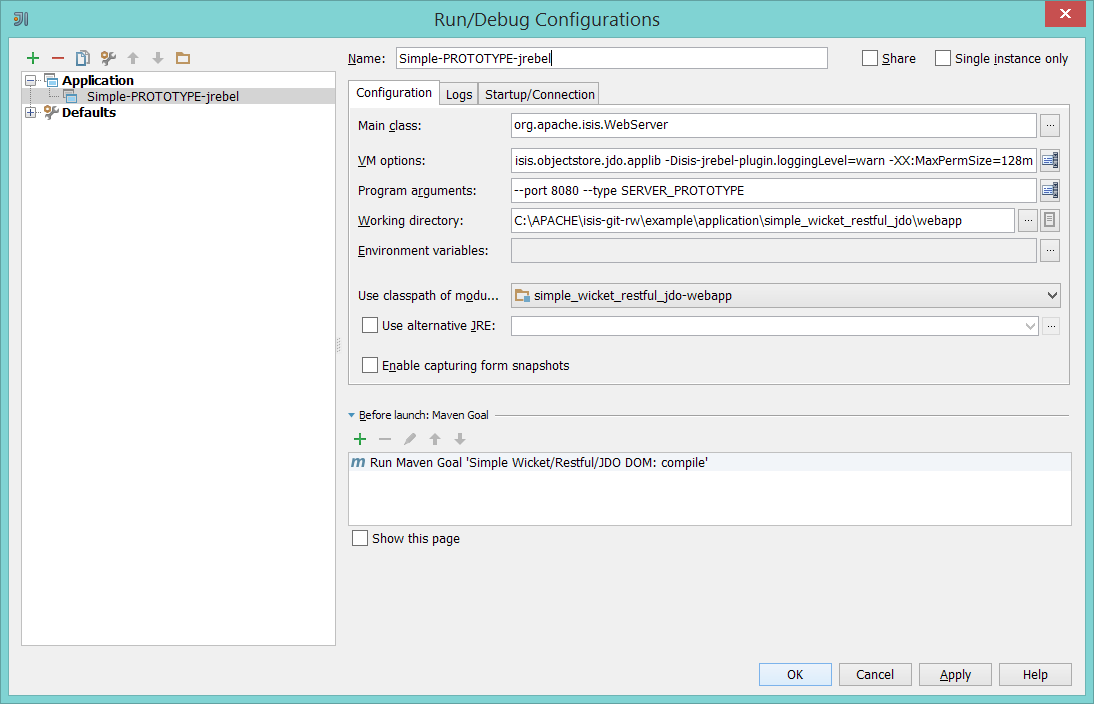
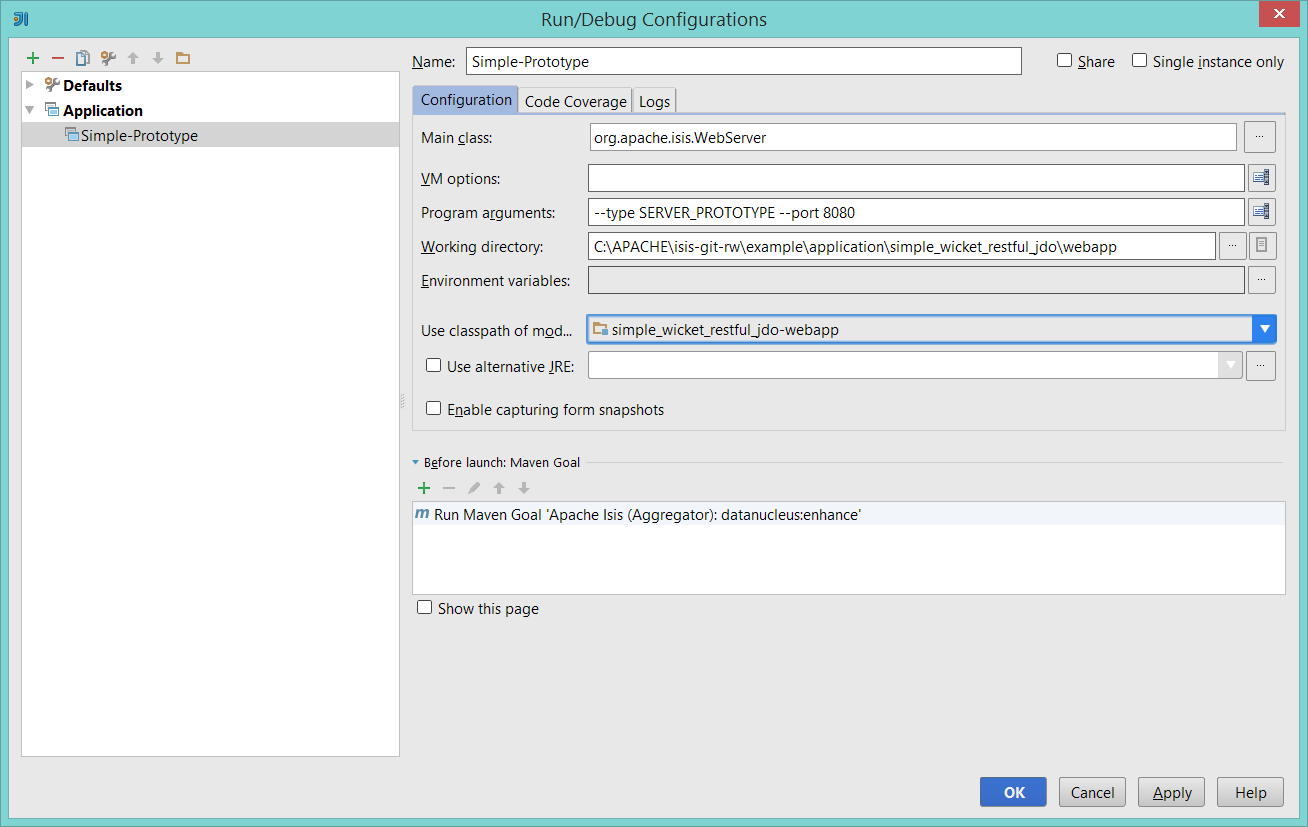
IntelliJ screencast
git-svn-id: https://svn.apache.org/repos/asf/isis/site/trunk@1591589 13f79535-47bb-0310-9956-ffa450edef68

diff --git a/content/intro/getting-started/ide/intellij.md b/content/intro/getting-started/ide/intellij.md
@@ -4,6 +4,7 @@ Title: Setting up the IntelliJ IDE
 > 
 > * setting up [Eclipse IDE](./eclipse.html).  
 > * setting up [IntelliJ and JRebel](../../../other/jrebel.html).  
+> * IDE templates for IntelliJ(../../resources/editor-templates.html).  
 > 
 
 We highly recommend that you develop your Isis application using an IDE.  Isis is built with Maven, and all modern IDEs can import Maven projects.  One of the most popular IDEs is [IntelliJ IDEA](http://www.jetbrains.com/idea/), offering either a paid-for "Ultimate" edition or a free-to-use Community edition.  Either will do for Isis development.
@@ -19,7 +20,7 @@ The steps are therefore:
 
 This screencast shows how to import an Isis app into IntelliJ, and then how to setup the run/debug configuration to run the app:
 
-<iframe width="640" height="360" src="//www.youtube.com/embed/lwKsyTbTSnA" frameborder="0" allowfullscreen></iframe>
+<iframe width="640" height="360" src="//www.youtube.com/embed/gF2FRadglpk" frameborder="0" allowfullscreen></iframe>
 
 If you are a [JRebel](http://zeroturnaround.com/software/jrebel/) user, then do also look at [how to configure IntelliJ with JRebel](../../../other/jrebel.html#intellij).
 

diff --git a/content/intro/getting-started/ide/eclipse.md b/content/intro/getting-started/ide/eclipse.md
@@ -4,6 +4,7 @@ Title: Setting up Eclipse (with JDO/DataNucleus)
 > 
 > * setting up [IntelliJ IDE](./intellij.html).  
 > * setting up [Eclipse and JRebel](../../../other/jrebel.html).  
+> * IDE templates for Eclipse(../../resources/editor-templates.html).  
 > 
 
 We highly recommend that you develop your Isis application using an IDE.  Isis is built with Maven, and all modern IDEs can import Maven projects.  The most commonly used IDE is [Eclipse](http://www.eclipse.org), which can be downloaded in various configurations, all of which are free for use.  We recommend you download the "Eclipse JEE package".
